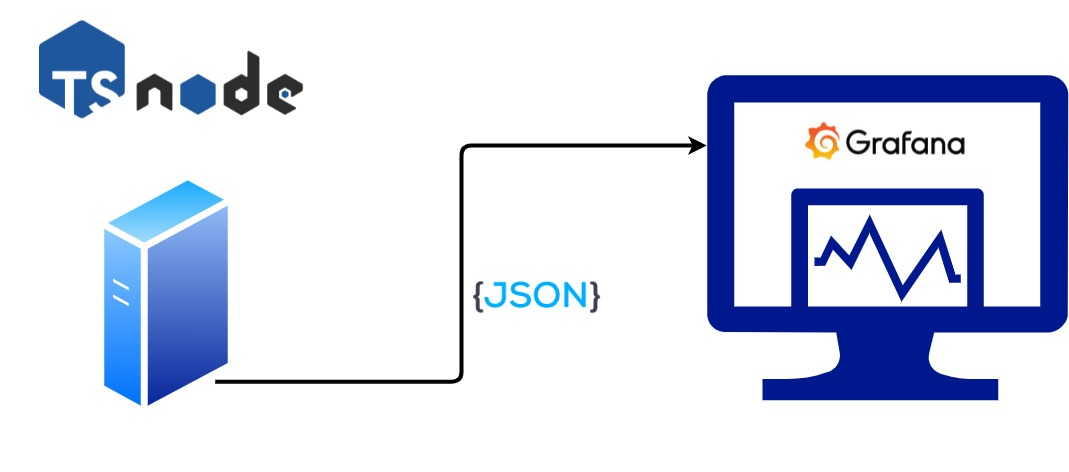
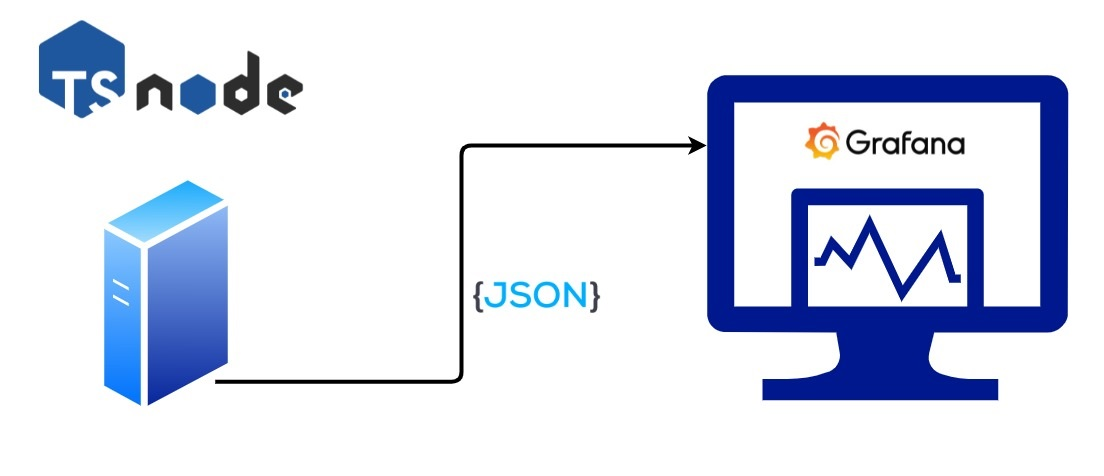
fixed images in doc

diff --git a/README.md b/README.md
@@ -27,19 +27,22 @@ The aim of the project is to plot temperature data, coming from a **Node.js with
 ###### Grafana Settings
 
 - First, you need a local instance of grafana, so run Grafana local and go to http://localhost:3000 (or the port where Grafana is running);
-- Install the plugin to plot Json from [SimpleJson plugin for Grafana | Grafana Labs](https://grafana.com/grafana/plugins/grafana-simple-json-datasource/) and add the datasource by clicking on "Add data source" from the left panel of Grafana;![image-20211026175132848](D:\Alessandro\uniCT\Magistrale\Secondo_Anno\1_Internet_Of_Things\Progetto_JOL\Grafana-backend-datasource\img\image-20211026175132848.png)
+
+- Install the plugin to plot Json from [SimpleJson plugin for Grafana | Grafana Labs](https://grafana.com/grafana/plugins/grafana-simple-json-datasource/) and add the datasource by clicking on "Add data source" from the left panel of Grafana;
+
+  ![img](https://github.com/andrea-calabretta/Grafana-backend-datasource/blob/main/img/image-20211026175132848.png)
 
 - Set the plugin port in order to match the server port;
 
-![image-20211026175650280](C:\Users\alexm\AppData\Roaming\Typora\typora-user-images\image-20211026175650280.png)
+  ![img](https://github.com/andrea-calabretta/Grafana-backend-datasource/blob/main/img/image-20211026175650280.png)
 
 - Have the server running, click "Explore" from the left panel of Grafana and select a "relative time range" from the dropdown list in the right high corner.
 
   You should be able to see graphs like these.
 
-![image-20211026180232739](D:\Alessandro\uniCT\Magistrale\Secondo_Anno\1_Internet_Of_Things\Progetto_JOL\Grafana-backend-datasource\img\image-20211026180206299.png)
+![img](https://github.com/andrea-calabretta/Grafana-backend-datasource/blob/main/img/image-20211026180206299.png)
 
 		and with a different time range, that's the view to be shown:
 
-![image-20211026180337867](D:\Alessandro\uniCT\Magistrale\Secondo_Anno\1_Internet_Of_Things\Progetto_JOL\Grafana-backend-datasource\img\image-20211026180337867.png)
+![img](https://github.com/andrea-calabretta/Grafana-backend-datasource/blob/main/img/image-20211026180337867.png)
 
